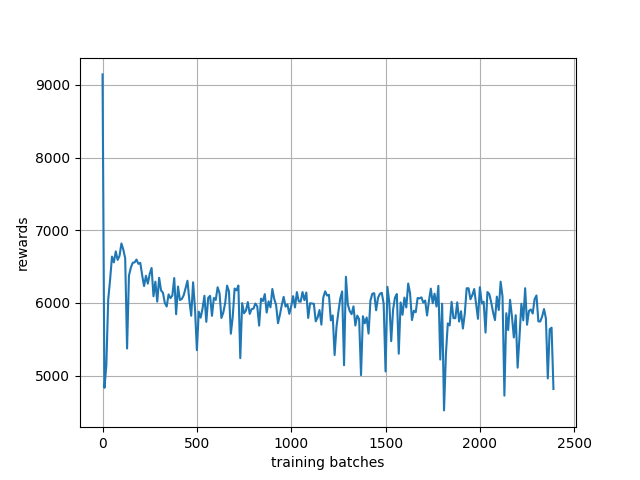
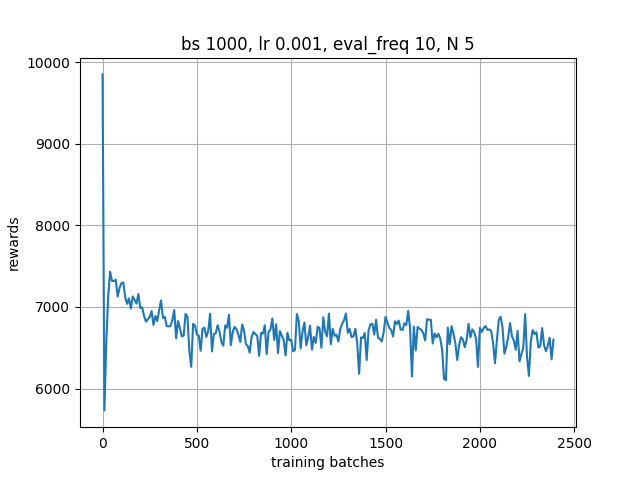
realized I was using SAMPLED ACTION instead of MEAN for eval T^T

diff --git a/halfcheetah_v4_sac/actor_impl.py b/halfcheetah_v4_sac/actor_impl.py
@@ -30,6 +30,8 @@ class Actor(nn.Module):
                 dtype=torch.float32,
             ),
         )
+        
+        
 
     # baseline
     def forward(self, x):
@@ -48,14 +50,9 @@ class Actor(nn.Module):
     # def forward(self, x):
     #     x = F.relu(self.fc1(x))
     #     x = F.relu(self.fc2(x))
-    #     mean = self.fc_mean(x)
-    #     log_std = self.fc_logstd(x)
-    #     log_std = torch.tanh(log_std)
-    #     log_std = LOG_STD_MIN + 0.5 * (LOG_STD_MAX - LOG_STD_MIN) * (
-    #         log_std + 1
-    #     )  # From SpinUp / Denis Yarats
+        
 
-    #     return mean, log_std
+    #     return 0
 
     def get_action(self, x):
         mean, log_std = self(x)

diff --git a/halfcheetah_v4_sac/helper_functions.py b/halfcheetah_v4_sac/helper_functions.py
@@ -22,9 +22,9 @@ def run_eval(actor, env, device, N=5):
             with torch.no_grad():
                 obs_tensor = (torch.from_numpy(obs).float().unsqueeze(0).to(device))
                 action, log_prob, mean = actor.get_action(obs_tensor)
-                action = action.squeeze(0).cpu().numpy()
+                mean = mean.squeeze(0).cpu().numpy()
             
-            obs, reward, terminated, truncated, info = env.step(action)
+            obs, reward, terminated, truncated, info = env.step(mean)
             episode_over = terminated or truncated
             total += reward
     

diff --git a/halfcheetah_v4_sac/experiment.py b/halfcheetah_v4_sac/experiment.py
@@ -88,14 +88,3 @@ if __name__ == "__main__":
     rewards = train(data, weights, device, batch_size, lr, eval_freq, N)
     plot(rewards, eval_freq, batch_size, lr, N, False)
     
-    # batch_size = [1000, 2000]
-    # lr = [1e-3, 1e-4]
-    # eval_freq = 10
-    # N = [5, 10]
-    
-    # for bs in batch_size:
-    #     for learn in lr:
-    #         for n in N:
-    #             rewards = train(data, weights, device, bs, learn, eval_freq, n)
-    #             plot(rewards, eval_freq, bs, learn, n, True)
-    

diff --git a/halfcheetah_v4_sac/report.md b/halfcheetah_v4_sac/report.md
@@ -52,7 +52,7 @@ First try:
 - different hparam searching
     - learning rate: 1e-3, 1e-4 
     - batch sizes: 1000, 2000
-    - N experiments: 5, 10
+    - N: 5, 10
     - I ran experiments trying different combinations of these hparams and found the best one was:
         - `lr=1e-4`, `batch_size=2000`, `N=10`
     - because of this, most of my hparams for the rest of the different models kept these hparams
@@ -67,8 +67,8 @@ First try:
 
 | Method | Hparams | Final Reward Return | Notes |
 | :----: | :-----: | :-----------------: | :---: |
-| Baseline log-prob min | batch_size=1000, lr=1e-3, <br> eval_freq=10, and N=5 | ~5000-6000 | First baseline |
-| Baseline log-prob min | batch_size=2000, lr=1e-4, <br> eval_freq=10, and N=10 | ~6500 | Best Hparam baseline |
+| Baseline log-prob min | batch_size=1000, lr=1e-3, <br> eval_freq=10, and N=5 | ~6500 | First baseline |
+| Baseline log-prob min | batch_size=2000, lr=1e-4, <br> eval_freq=10, and N=10 | ~7250 | Best Hparam baseline |
 
 
 
